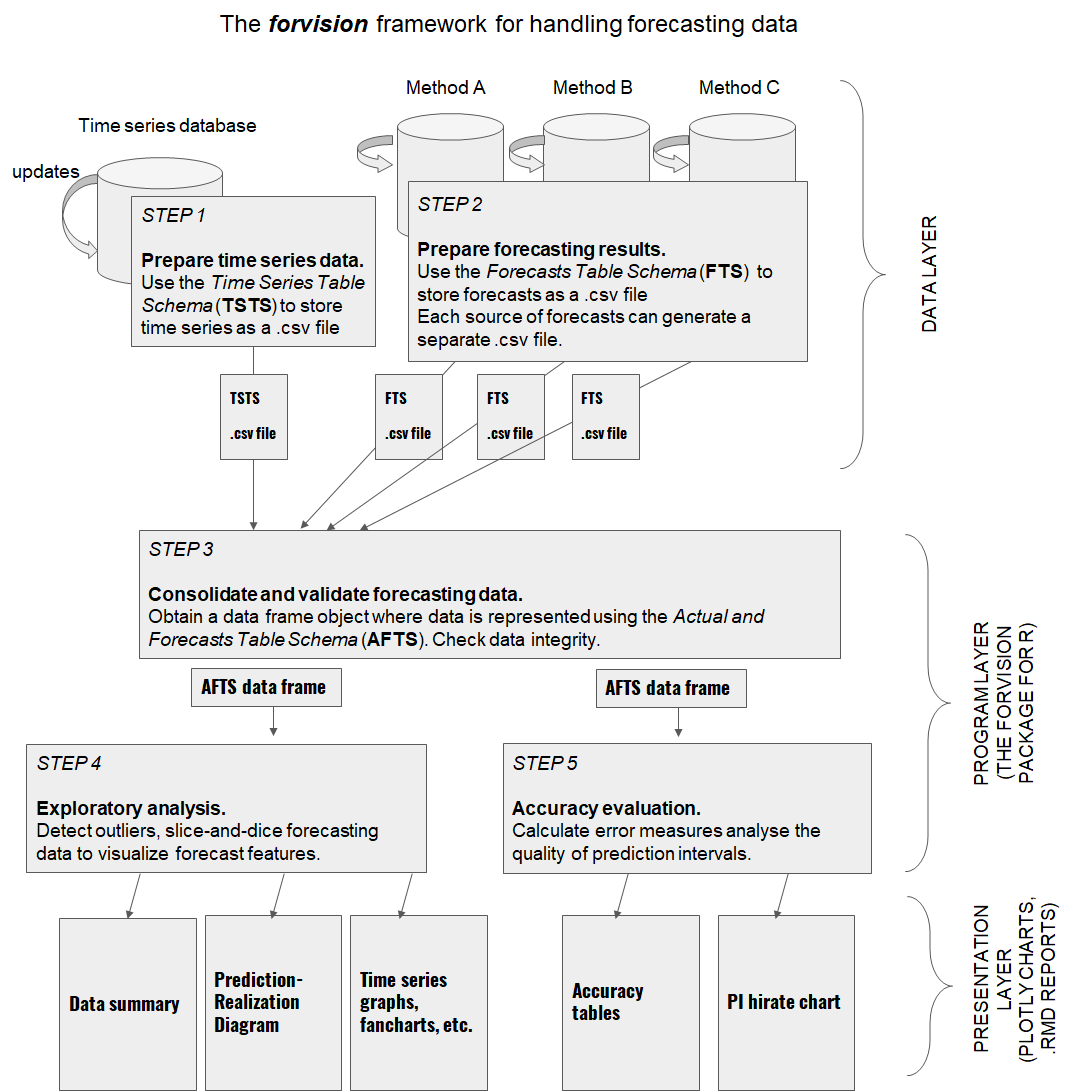
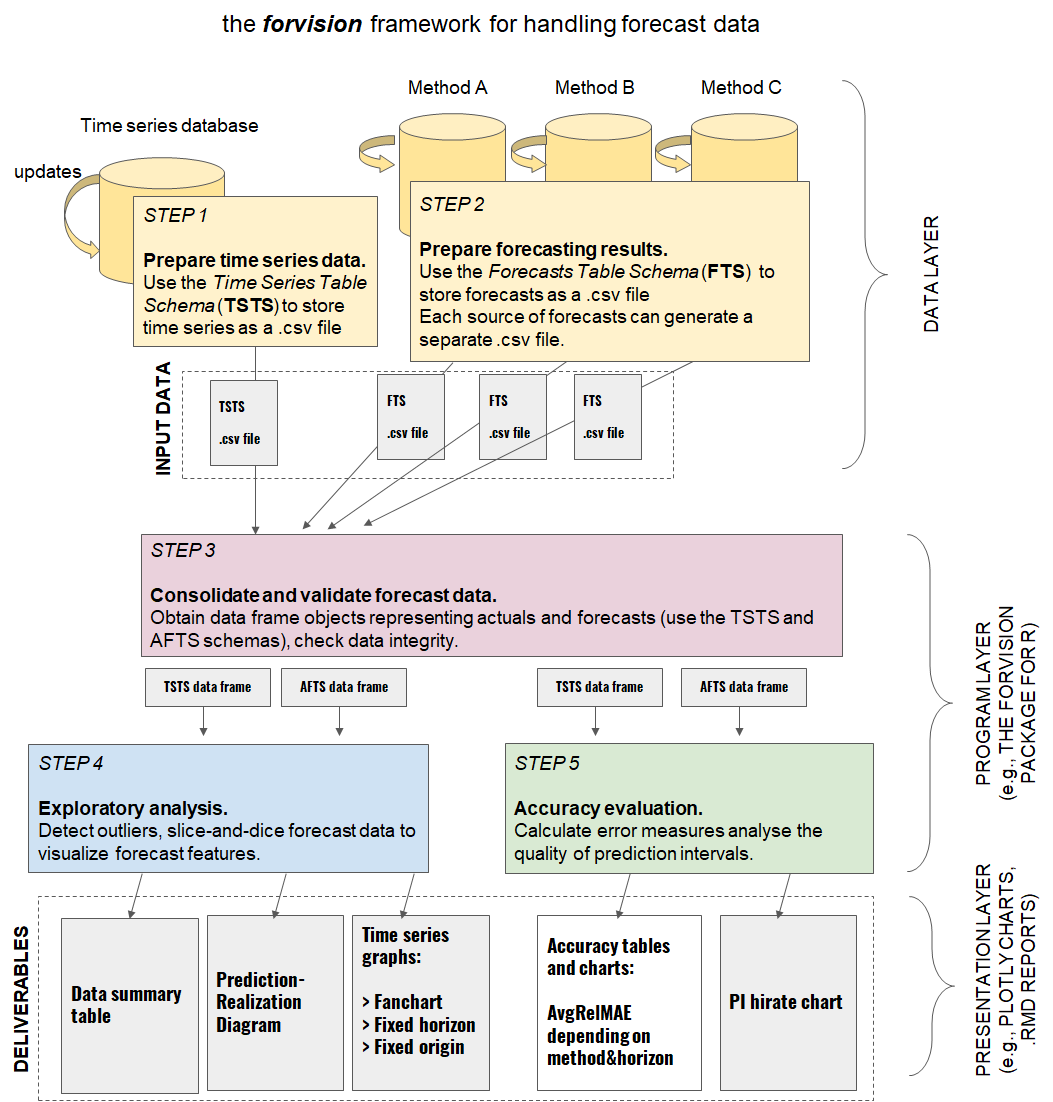
apdated data-flow

diff --git a/forvision/index.html b/forvision/index.html
@@ -93,6 +93,101 @@
             <i class="fa fa-angle-down fa-lg category-icon"></i><i class="fa fa-circle-thin read-icon"></i>
       </div>
         <ul>
+    <li data-nav-id="/approach/data-flow/" class="dd-item alwaysopen
+        ">
+      <div>
+      <a href="/approach/data-flow/">Data flow</a><i class="fa fa-circle-thin read-icon"></i>
+      </div>
+    </li>
+    <li data-nav-id="/approach/data-shemas/" class="dd-item alwaysopen haschildren
+        ">
+      <div>
+      <a href="/approach/data-shemas/">Main table schemas (TS)</a>
+            <i class="fa fa-angle-down fa-lg category-icon"></i><i class="fa fa-circle-thin read-icon"></i>
+      </div>
+        <ul>
+      <li data-nav-id="/approach/data-shemas/tsts/" class="dd-item">
+        <div>
+          <a href="/approach/data-shemas/tsts/">
+            Time Series (TSTS)
+          </a><i class="fa fa-circle-thin read-icon"></i>
+        </div>
+    </li>
+      <li data-nav-id="/approach/data-shemas/fts/" class="dd-item">
+        <div>
+          <a href="/approach/data-shemas/fts/">
+            Forecast (FTS)
+          </a><i class="fa fa-circle-thin read-icon"></i>
+        </div>
+    </li>
+      <li data-nav-id="/approach/data-shemas/afts/" class="dd-item">
+        <div>
+          <a href="/approach/data-shemas/afts/">
+            Actuals and forecasts(AFTS)
+          </a><i class="fa fa-circle-thin read-icon"></i>
+        </div>
+    </li>
+        </ul>
+    </li>
+    <li data-nav-id="/approach/optional-ds/" class="dd-item alwaysopen haschildren
+        ">
+      <div>
+      <a href="/approach/optional-ds/">Optional data structures</a>
+            <i class="fa fa-angle-down fa-lg category-icon"></i><i class="fa fa-circle-thin read-icon"></i>
+      </div>
+        <ul>
+      <li data-nav-id="/approach/optional-ds/ftds/" class="dd-item">
+        <div>
+          <a href="/approach/optional-ds/ftds/">
+            Forecasts Table Dynamic Schema (FTDS)
+          </a><i class="fa fa-circle-thin read-icon"></i>
+        </div>
+    </li>
+        </ul>
+    </li>
+    <li data-nav-id="/approach/exploratory-tools.md/" class="dd-item alwaysopen haschildren
+        ">
+      <div>
+      <a href="/approach/exploratory-tools.md/">Exploratory analysis tools</a>
+            <i class="fa fa-angle-down fa-lg category-icon"></i><i class="fa fa-circle-thin read-icon"></i>
+      </div>
+        <ul>
+      <li data-nav-id="/approach/exploratory-tools.md/prd/" class="dd-item">
+        <div>
+          <a href="/approach/exploratory-tools.md/prd/">
+            Prediction-Realization Diagram
+          </a><i class="fa fa-circle-thin read-icon"></i>
+        </div>
+    </li>
+      <li data-nav-id="/approach/exploratory-tools.md/fanchart/" class="dd-item">
+        <div>
+          <a href="/approach/exploratory-tools.md/fanchart/">
+            Fanchart
+          </a><i class="fa fa-circle-thin read-icon"></i>
+        </div>
+    </li>
+      <li data-nav-id="/approach/exploratory-tools.md/fixed-origin-graph/" class="dd-item">
+        <div>
+          <a href="/approach/exploratory-tools.md/fixed-origin-graph/">
+            Fixed origin graph
+          </a><i class="fa fa-circle-thin read-icon"></i>
+        </div>
+    </li>
+      <li data-nav-id="/approach/exploratory-tools.md/fixed-horizon-graph/" class="dd-item">
+        <div>
+          <a href="/approach/exploratory-tools.md/fixed-horizon-graph/">
+            Fixed horizon graph
+          </a><i class="fa fa-circle-thin read-icon"></i>
+        </div>
+    </li>
+        </ul>
+    </li>
+    <li data-nav-id="/approach/accuracy-tools/" class="dd-item alwaysopen
+        ">
+      <div>
+      <a href="/approach/accuracy-tools/">Accuracy evaluation tools</a><i class="fa fa-circle-thin read-icon"></i>
+      </div>
+    </li>
         </ul>
     </li>
     <li data-nav-id="/datasets/" class="dd-item alwaysopen haschildren

diff --git a/datasets/test-cases/index.html b/datasets/test-cases/index.html
@@ -337,8 +337,6 @@
   
     <option value="/datasets/" >
    Data sets</option> 
-      <option value="/datasets/test-cases/"  selected>- Test cases</option>
-      <option value="/datasets/m3-data/" >- M3-Competition data</option>
   
     <option value="/forvision/" >
    The forvision package for R</option> 

diff --git a/approach/exploratory-tools.md/index.html b/approach/exploratory-tools.md/index.html
@@ -320,7 +320,6 @@
     <option value="/approach/optional-ds/" >
   - 
    Optional data structures</option> 
-      <option value="/approach/optional-ds/ftds/" >-- Forecasts Table Dynamic Schema (FTDS)</option>
   
     <option value="/approach/exploratory-tools.md/"  selected>
   - 
